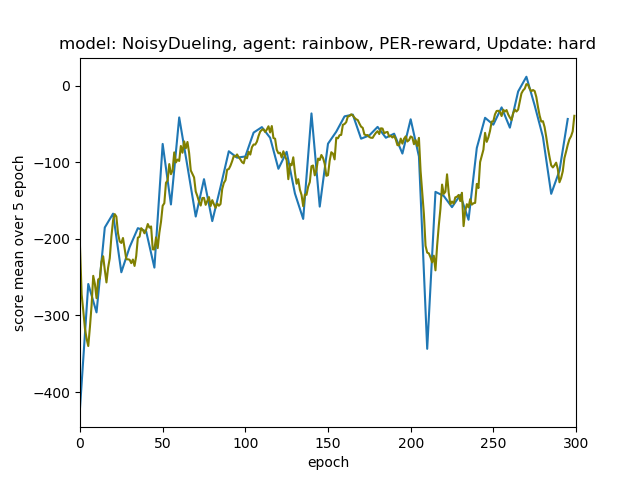
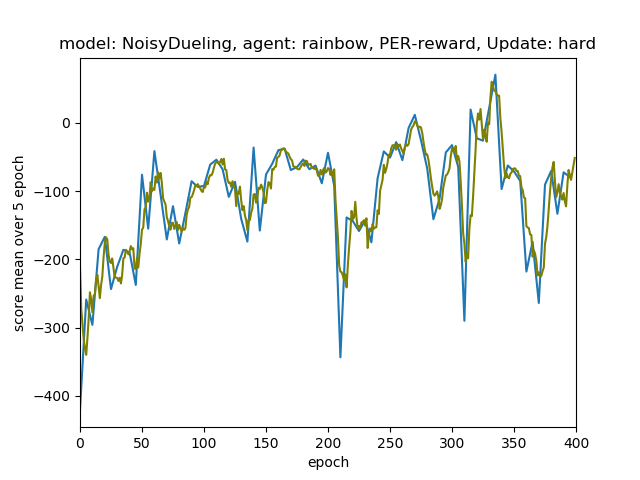
test

diff --git a/DRL-course/rainbow/saved/test12/model_test.md b/DRL-course/rainbow/saved/test12/model_test.md
@@ -42,3 +42,7 @@
 	Episode 100	Average Score: -177.75
 	Episode 200	Average Score: -79.96
 	Episode 300	Average Score: -93.97
+	Episode 400	Average Score: -87.09
+
+
+best score: 208.91872270791353 at eps: 335
